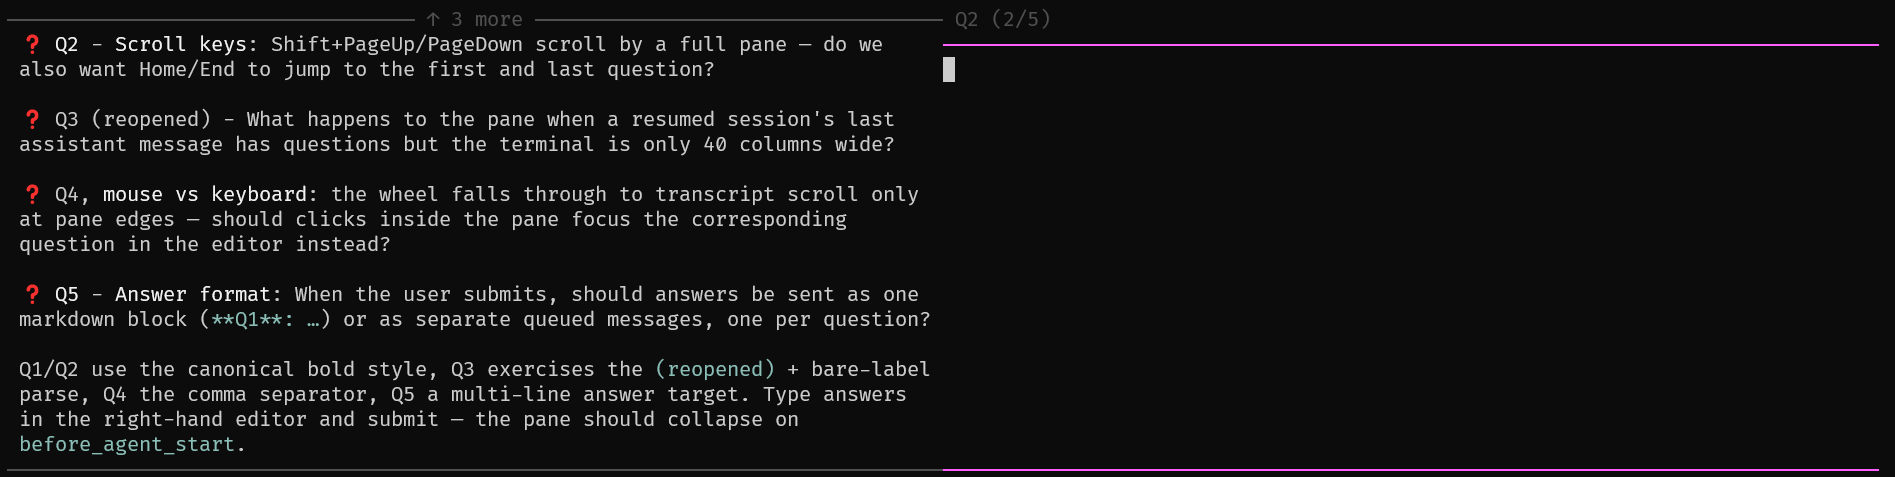
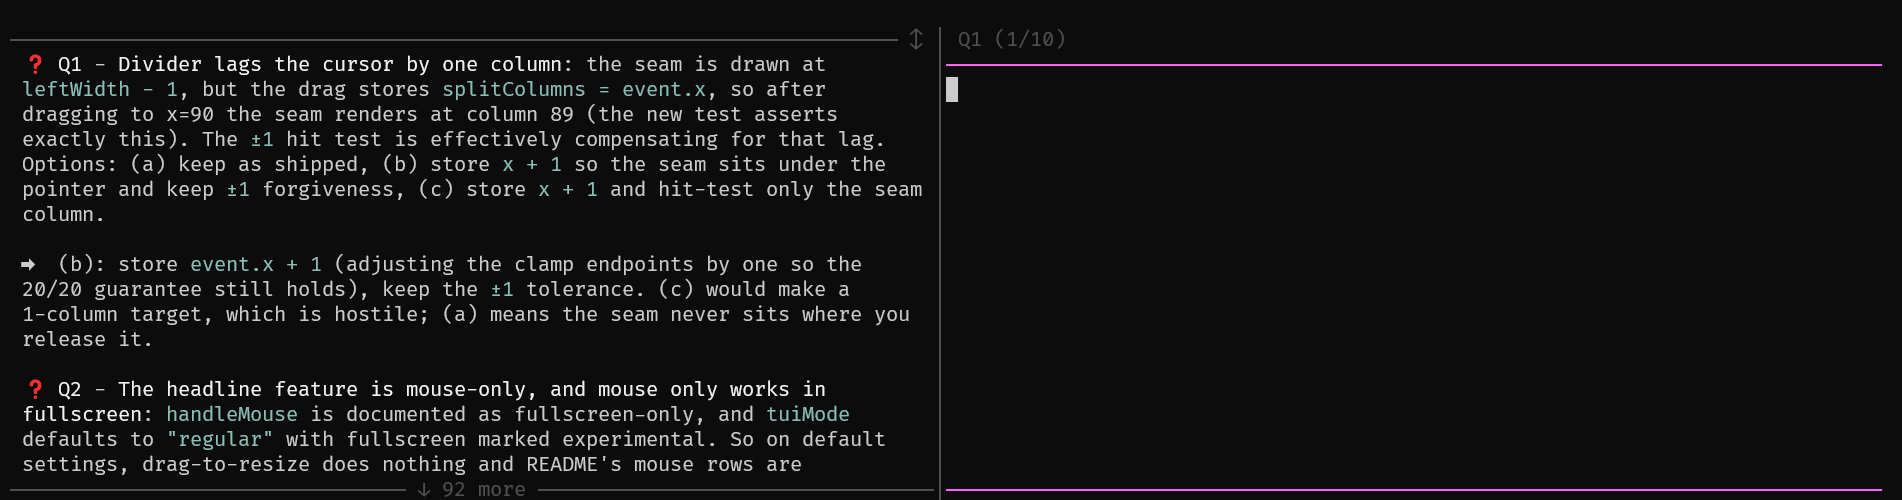
feat: resizable questions box

Changed region(s): [[0.0, 0.0294, 0.9963, 0.7044], [0.0, 0.7631, 0.9963, 0.9979], [0.4982, 0.1761, 0.5293, 0.2055]]

diff --git a/extensions/grilling-questions.ts b/extensions/grilling-questions.ts
@@ -62,10 +62,17 @@ export function parseQuestions(text: string): Question[] {
 // one included. Submit assembles all stored answers:
 //   Q1: ...
 //   Q2: ...
-// Narrow terminals fall back to pane stacked above the editor.
-const PANE_SHARE = 0.5; // block height = 50% of terminal rows
+// Both dividers are mouse handles: drag the │ seam left/right to resize the
+// split, drag the pane's top ─ border up/down to resize the whole box. The ⇔
+// and ↕ glyphs mark them. Narrow terminals fall back to pane above editor.
+const PANE_SHARE = 0.5; // default block height = 50% of terminal rows
 const MIN_PANE_HEIGHT = 6;
 const MIN_COLUMNS_WIDTH = 60;
+const MIN_SIDE_WIDTH = 20; // neither half shrinks below this in two-column mode
+const RESERVED_ROWS = 4; // rows the box never eats from the transcript/footer
+const DIVIDER = "│";
+const DIVIDER_ACTIVE = "┃";
+const HEIGHT_HANDLE = " ↕ ";
 
 function padLine(line: string, width: number): string {
   const visible = visibleWidth(line);
@@ -78,6 +85,10 @@ export class QuestionState {
   answers: string[] = [];
   activeIndex = 0;
   scrollOffset = 0;
+  // User-dragged dividers - left pane columns and dock rows; both survive
+  // rounds and state.set so the chosen split sticks for the session.
+  splitColumns?: number;
+  splitRows?: number;
   requestRender?: () => void;
 
   set(questions: Question[]): void {
@@ -98,6 +109,7 @@ export class GrillingEditor extends CustomEditor {
   private appOnSubmit?: (text: string) => void;
   private paneSource?: Question[];
   private paneWidth?: number;
+  private drag?: { axis: "x" } | { axis: "y"; screenY: number; start: number };
   private paneLines: string[] = [];
   private paneQuestionStarts: number[] = [];
   private lastLayout?: {
@@ -151,6 +163,24 @@ export class GrillingEditor extends CustomEditor {
       .join("\n");
   }
 
+  private splitWidth(width: number): number {
+    return this.clampSplit(this.questionState.splitColumns ?? Math.floor(width / 2), width);
+  }
+
+  private clampSplit(x: number, width: number): number {
+    return Math.max(MIN_SIDE_WIDTH, Math.min(width - MIN_SIDE_WIDTH, x));
+  }
+
+  private clampRows(rows: number): number {
+    const max = Math.max(MIN_PANE_HEIGHT, this.tui.terminal.rows - RESERVED_ROWS);
+    return Math.max(MIN_PANE_HEIGHT, Math.min(max, Math.round(rows)));
+  }
+
+  private paneHeight(): number {
+    const preferred = this.questionState.splitRows ?? Math.floor(this.tui.terminal.rows * PANE_SHARE);
+    return this.clampRows(preferred);
+  }
+
   private buildPane(width: number): void {
     if (this.paneSource === this.questionState.questions && this.paneWidth === width) return;
 
@@ -179,7 +209,7 @@ export class GrillingEditor extends CustomEditor {
   }
 
   private contentHeight(): number {
-    return Math.max(1, Math.max(MIN_PANE_HEIGHT, Math.floor(this.tui.terminal.rows * PANE_SHARE)) - 2);
+    return Math.max(1, this.paneHeight() - 2);
   }
 
   private maxScroll(): number {
@@ -207,7 +237,7 @@ export class GrillingEditor extends CustomEditor {
     state.answers[state.activeIndex] = this.getText();
     state.activeIndex = next;
     this.setText(state.answers[next] ?? "");
-    this.buildPane(this.lastLayout?.leftWidth ?? MIN_COLUMNS_WIDTH);
+    this.buildPane(this.paneWidth ?? MIN_COLUMNS_WIDTH);
     state.scrollOffset = this.clampScroll(this.paneQuestionStarts[next] ?? 0);
     this.tui.requestRender();
   }
@@ -231,7 +261,13 @@ export class GrillingEditor extends CustomEditor {
     return ` ${this.theme.borderColor(`${question.label}${nav}`)}`;
   }
 
-  private renderPane(width: number, height: number): string[] {
+  // Top border doubles as the height handle, so it carries a ↕ mark.
+  private topBorder(offset: number, width: number): string {
+    const border = this.scrollBorder("↑", offset, width);
+    return border.endsWith("────") ? `${border.slice(0, -3)}${HEIGHT_HANDLE}` : border;
+  }
+
+  private renderPane(width: number, height: number, divider: boolean): string[] {
     this.buildPane(width);
     const contentHeight = Math.max(1, height - 2);
     const offset = this.clampScroll(this.questionState.scrollOffset);
@@ -240,18 +276,19 @@ export class GrillingEditor extends CustomEditor {
     const visible: string[] = [];
     for (let index = 0; index < contentHeight; index++) visible.push(this.paneLines[offset + index] ?? "");
 
-    const lines = [this.theme.borderColor(this.scrollBorder("↑", offset, width))];
+    const lines = [this.theme.borderColor(this.topBorder(offset, width))];
     for (const line of visible) lines.push(padLine(` ${line}`, width));
     lines.push(
       this.theme.borderColor(
         this.scrollBorder("↓", Math.max(0, this.paneLines.length - offset - visible.length), width),
       ),
     );
-    return lines;
+    if (!divider) return lines;
+    return lines.map((line) => `${line}${this.theme.borderColor(this.drag ? DIVIDER_ACTIVE : DIVIDER)}`);
   }
 
   render(width: number): string[] {
-    const paneHeight = Math.max(MIN_PANE_HEIGHT, Math.floor(this.tui.terminal.rows * PANE_SHARE));
+    const paneHeight = this.paneHeight();
 
     if (this.questionState.questions.length === 0) return super.render(width);
 
@@ -260,7 +297,7 @@ export class GrillingEditor extends CustomEditor {
       const header = this.headerLine();
       const editorLines = super.render(width);
       if (header) editorLines.unshift(padLine(header, width));
-      const blockHeight = Math.max(paneHeight, editorLines.length);
+      const blockHeight = paneHeight; // resizable: the pane may shrink below the editor
       this.lastLayout = {
         width,
         wide: false,
@@ -268,10 +305,10 @@ export class GrillingEditor extends CustomEditor {
         leftWidth: width,
         headerRows: header ? 1 : 0,
       };
-      return [...this.renderPane(width, blockHeight), ...editorLines];
+      return [...this.renderPane(width, blockHeight, false), ...editorLines];
     }
 
-    const leftWidth = Math.floor(width / 2);
+    const leftWidth = this.splitWidth(width);
     const rightWidth = width - leftWidth;
     const header = this.headerLine();
     const editorLines = super.render(rightWidth);
@@ -286,7 +323,7 @@ export class GrillingEditor extends CustomEditor {
       while (editorLines.length < blockHeight) editorLines.push("");
     }
 
-    const pane = this.renderPane(leftWidth, blockHeight);
+    const pane = this.renderPane(leftWidth - 1, blockHeight, true);
     const lines: string[] = [];
     for (let row = 0; row < blockHeight; row++) {
       lines.push(padLine(pane[row] ?? "", leftWidth) + padLine(editorLines[row] ?? "", rightWidth));
@@ -310,6 +347,28 @@ export class GrillingEditor extends CustomEditor {
 
     const layout = this.lastLayout?.width === event.width ? this.lastLayout : undefined;
     if (!layout) return super.handleMouse(event);
+
+    // Handles: the top border row drags the dock height, the │ seam (two-column
+    // mode) drags the width. Press captures the pointer; the TUI routes
+    // drag/release back here until release.
+    if (event.type === "press" && event.button === "left") {
+      if (event.y === 0) {
+        this.drag = { axis: "y", screenY: event.screenY, start: layout.paneRows };
+        return { capture: true };
+      }
+      if (layout.wide && Math.abs(event.x - (layout.leftWidth - 1)) <= 1) {
+        this.drag = { axis: "x" };
+        return { capture: true };
+      }
+    }
+    if (event.type === "press") this.drag = undefined; // stale capture, e.g. lost focus mid-drag
+    if (this.drag) {
+      if (event.type === "drag" || event.type === "move") return this.dragResize(event);
+      if (event.type === "release") {
+        this.drag = undefined;
+        return { handled: true };
+      }
+    }
 
     if (layout.wide) {
       if (event.x < layout.leftWidth) {
@@ -342,6 +401,23 @@ export class GrillingEditor extends CustomEditor {
       y: event.y - layout.paneRows - layout.headerRows,
       height: Math.max(1, event.height - layout.paneRows - layout.headerRows),
     });
+  }
+
+  private dragResize(event: TuiMouseEvent): { handled: true } {
+    const drag = this.drag!;
+    if (drag.axis === "x") {
+      const next = this.clampSplit(event.x, event.width);
+      if (next === this.questionState.splitColumns) return { handled: true };
+      this.questionState.splitColumns = next;
+    } else {
+      // The dock is bottom-anchored: screen row is the stable reference while
+      // the top border grows/shrinks under the pointer.
+      const next = this.clampRows(drag.start - (event.screenY - drag.screenY));
+      if (next === this.questionState.splitRows) return { handled: true };
+      this.questionState.splitRows = next;
+    }
+    this.tui.requestRender();
+    return { handled: true };
   }
 }
 

diff --git a/README.md b/README.md
@@ -7,6 +7,7 @@ A [pi](https://github.com/earendil-works/pi-coding-agent) extension that turns t
 ## How it works
 
 - Any assistant message containing lines starting with `❓ Qn` is parsed into questions and shown in the left pane, styled like the transcript. The right pane is the normal editor, one question at a time - a header above it shows which one is active (`Q2 (2/5)`).
+- The `│` column between the panes is draggable: click-hold it and drag to resize the split left/right (each side keeps a 20-column minimum; the width sticks for the session). The pane's top `─` border is draggable too: drag it up/down to grow or shrink the box height (it never eats the transcript). The `↕` mark on the top border shows where the height handle is.
 - Submitting sends all answers in one message:
   ```
   Q1: after the refactor, the old tests are deleted
@@ -24,6 +25,8 @@ A [pi](https://github.com/earendil-works/pi-coding-agent) extension that turns t
 | `shift+↑` / `shift+↓` | scroll the pane one line |
 | `shift+pageup` / `shift+pagedown` | scroll the pane a full page |
 | mouse wheel | scroll the pane; falls through to transcript scrolling when the pane is at its edge |
+| mouse drag on the `│` divider | resize the question pane / editor split |
+| mouse drag on the top `─` border | grow / shrink the question box height |
 
 On terminals narrower than 60 columns the pane stacks above the editor instead of side-by-side.
 
